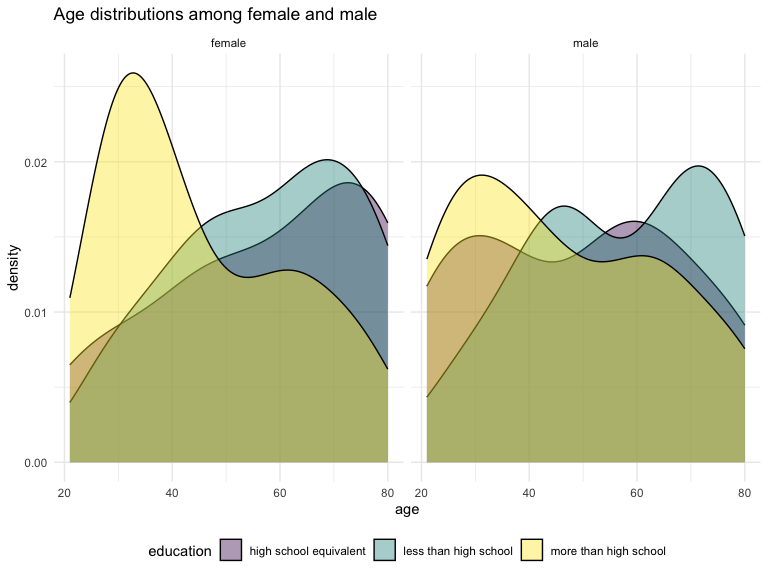
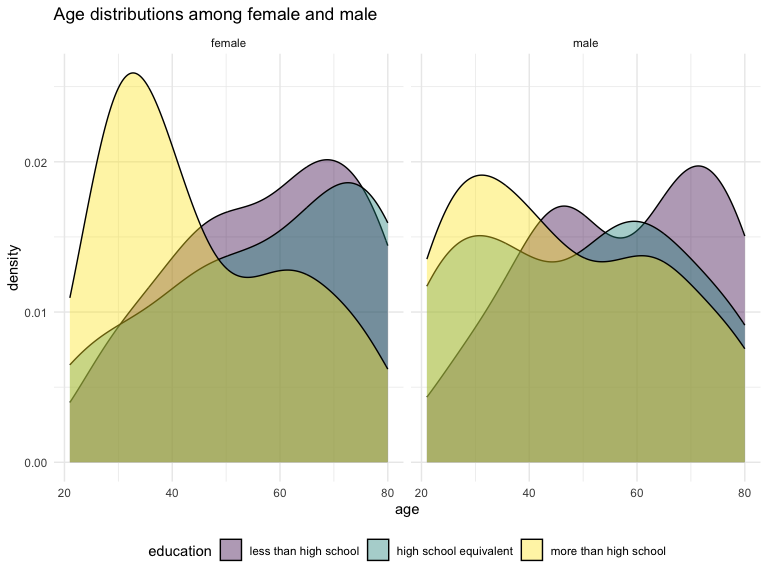
update q3

diff --git a/p8105_hw3_yl5219.md b/p8105_hw3_yl5219.md
@@ -407,15 +407,21 @@ nhanes_covar
     ## # ℹ 218 more rows
 
 - merge `nhanes_accel` and `nhanes_covar` dataset together:
+  - merge the datasets together by `inner_join()` to include variables
+    values that exists in both datasets
+  - relevel the `education` by `forcats::fct_relevel()` so that it is
+    ordered from lower to higher educational attainment instead of being
+    ordered alphabetically
 
 ``` r
-nhanes = inner_join(nhanes_accel, nhanes_covar, by = "seqn")
+nhanes = inner_join(nhanes_accel, nhanes_covar, by = "seqn")|>
+  mutate(education = forcats::fct_relevel(education, c("less than high school", "high school equivalent", "more than high school"))) 
 nhanes
 ```
 
     ## # A tibble: 328,320 × 7
     ##     seqn min   mims_value sex     age   bmi education             
-    ##    <int> <chr>      <dbl> <chr> <int> <dbl> <chr>                 
+    ##    <int> <chr>      <dbl> <chr> <int> <dbl> <fct>                 
     ##  1 62161 1          1.11  male     22  23.3 high school equivalent
     ##  2 62161 2          3.12  male     22  23.3 high school equivalent
     ##  3 62161 3          1.47  male     22  23.3 high school equivalent
@@ -439,40 +445,43 @@ nhanes|>
   knitr::kable()
 ```
 
-| sex    | high school equivalent | less than high school | more than high school |
-|:-------|-----------------------:|----------------------:|----------------------:|
-| female |                     23 |                    28 |                    59 |
-| male   |                     35 |                    27 |                    56 |
+| sex    | less than high school | high school equivalent | more than high school |
+|:-------|----------------------:|-----------------------:|----------------------:|
+| female |                    28 |                     23 |                    59 |
+| male   |                    27 |                     35 |                    56 |
 
 **Comment:**
 
 - Among the total 110 female participants, 23 of them have educational
   level of high school equivalent, 28 have less than high school and 59
   have more than high school.
-
 - Among the total 118 female participants, 35 of them have educational
   level of high school equivalent, 27 have less than high school and 56
   have more than high school.  
-
 - Almost half of the participants have educational level of more than
   high school in both female (59 out of 110) and male (56 out of 118)
   subgroups.
-
 - In high school equivalent stratum, there is relatively more male than
   female (35 vs. 23).
-
 - The numbers of female and male in each category are similar in less
   than high school stratum (28 vs. 27) and more than high school stratum
   (59 vs. 56).
 
+<br>
+
 - create a visualization of the age distributions for men and women in
   each education category.
+  - group the data by `sex` and `education` by `group_by()`
+  - find the distinct variables like `seqn`by `distinct()`
+  - plot the age distribution by education using
+    `ggplot(aes(x = age, group = education, fill = education))`
+  - make two separate plots by `sex` using `facet_grid()`
 
 ``` r
 nhanes|>
   group_by(sex, education)|>
   distinct(seqn,sex,age,education)|>
-  ggplot(aes(x = age, fill = education)) + 
+  ggplot(aes(x = age, group = education, fill = education)) + 
   labs(title = "Age distributions among female and male") +
   geom_density(alpha = .4) +
   facet_grid(~sex)+ 
@@ -509,6 +518,7 @@ nhanes|>
   create a total activity variable for each participant.
 
   - create a variable `total_activity`:
+    - group the data by `seqn` `sex` `age` and `education` by `group_by`
     - aggregate activity variable across minutes by
       `summarise(total_activity=sum(mims_value))`
 
@@ -522,7 +532,7 @@ total_activity
 
     ## # A tibble: 228 × 5
     ##     seqn sex      age education              total_activity
-    ##    <int> <chr>  <int> <chr>                           <dbl>
+    ##    <int> <chr>  <int> <fct>                           <dbl>
     ##  1 62161 male      22 high school equivalent         13194.
     ##  2 62164 female    44 more than high school          13411.
     ##  3 62169 male      21 high school equivalent          9991.
@@ -542,6 +552,8 @@ total_activity
   - add points by `geom_point()`
   - add a smooth by `geom_smooth()`
   - separate panels for each education level by `facet_grid(~education)`
+  - add title by
+    `labs(title = "Plot of age vs. total activities by educational level and sex")`
 
 ``` r
 total_activity |>
@@ -572,12 +584,15 @@ total_activity |>
   school’ education category display less variability in total activity
   across age groups, in contrast to the other two education categories.
 
-<break>
+<br>
 
 - Make a three-panel plot that shows the 24-hour activity time courses
   for each education level and use color to indicate sex. Describe in
   words any patterns or conclusions you can make based:
 
+  - group the data by `group_by`
+  - create a summary data frame with the mean MIMS values by
+    `summarize(mims_value = mean(mims_value))`
   - create a plot of `mims_value` activity across 24-hour `min` and
     compare men to women by
     `ggplot(aes(x = min, y = mims_value, group = sex, color = sex))`
@@ -588,10 +603,11 @@ total_activity |>
 ``` r
 nhanes |>
   group_by(min, sex, education)|>
-  summarize(mims_value = sum(mims_value), .groups = "drop")|>
-  ggplot(aes(x = min, y = mims_value, group = sex, color = sex)) +
+  summarize(mims_value = mean(mims_value), .groups = "drop")|>
+  ggplot(aes(x = as.numeric(min), y = mims_value, group = sex, color = sex)) +
   geom_point(alpha =0.75, size = 1.5) + geom_smooth()+
-  facet_grid(~education)
+  facet_grid(~education)+
+  scale_x_continuous(breaks = seq(0, 1500, by = 200))
 ```
 
 <img src="p8105_hw3_yl5219_files/figure-gfm/unnamed-chunk-20-1.png" width="90%" />
@@ -599,12 +615,11 @@ nhanes |>
 **Comment**
 
 - Both females and males tend to exhibit higher MIMS values between 8:30
-  and 20:00 (equivalent to 510 to 1200 minutes) across all education
-  groups.
-
-- The MIMS values show a significant increase starting at 4:00, reaching
-  their peak around 8:30, followed by a gradual decrease from 8:30 to
-  20:00 and a sharp drop after 20:00.
+  and 20:00, which is also known as between the 510th to the 1200th
+  minute of the day, across all education groups. The MIMS values show a
+  significant increase starting at 4:00 (240th minute), reaching their
+  peak around 8:30, followed by a gradual decrease from 8:30 to 20:00
+  and a sharp drop after 20:00.
 
 - Within the ‘Less than high school’ education category, both females
   and males tend to have higher peak MIMS values compared to the other
@@ -613,8 +628,11 @@ nhanes |>
   with lower education levels potentially correlating with higher peak
   MIMS scores.
 
-- Conversely, in the ‘High school equivalent’ and ‘More than high
-  school’ education categories, females tend to exhibit higher MIMS
-  values than males between 8:30 and 20:00, while MIMS values are
-  similar between genders in the ‘Less than high school’ education
-  category.
+- Female seems to have higher variations in MIMS values across different
+  time as we can see the MIMS score among female is a little bit lower
+  than male before 4:00 while the MIMS score among female is higher than
+  male between 8:30 and 20:00. And later after 20:00 MIMS score among
+  female again becomes a little bit lower than that among male. This
+  trend appear in all three educational groups. Worth noticing, females
+  tend to exhibit much higher MIMS values than males between 8:30 and
+  20:00 in all three educational groups.
